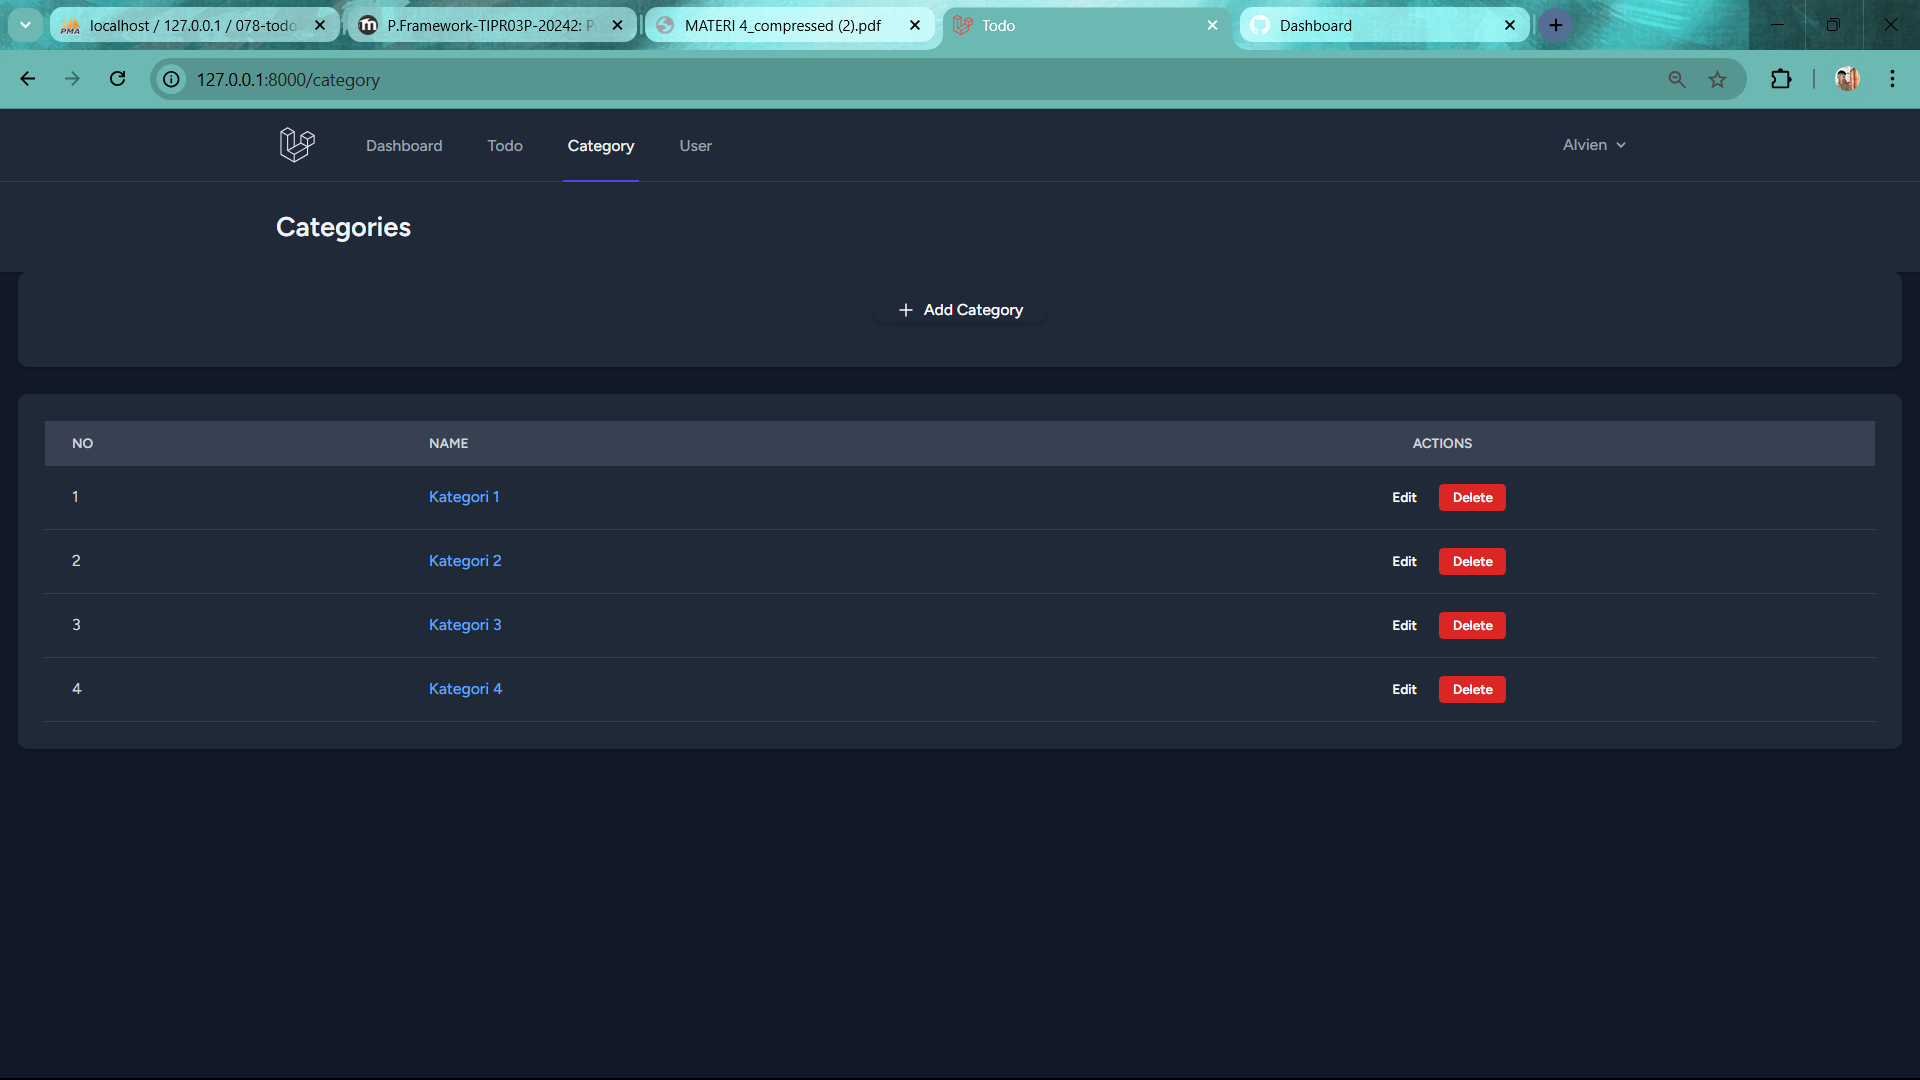
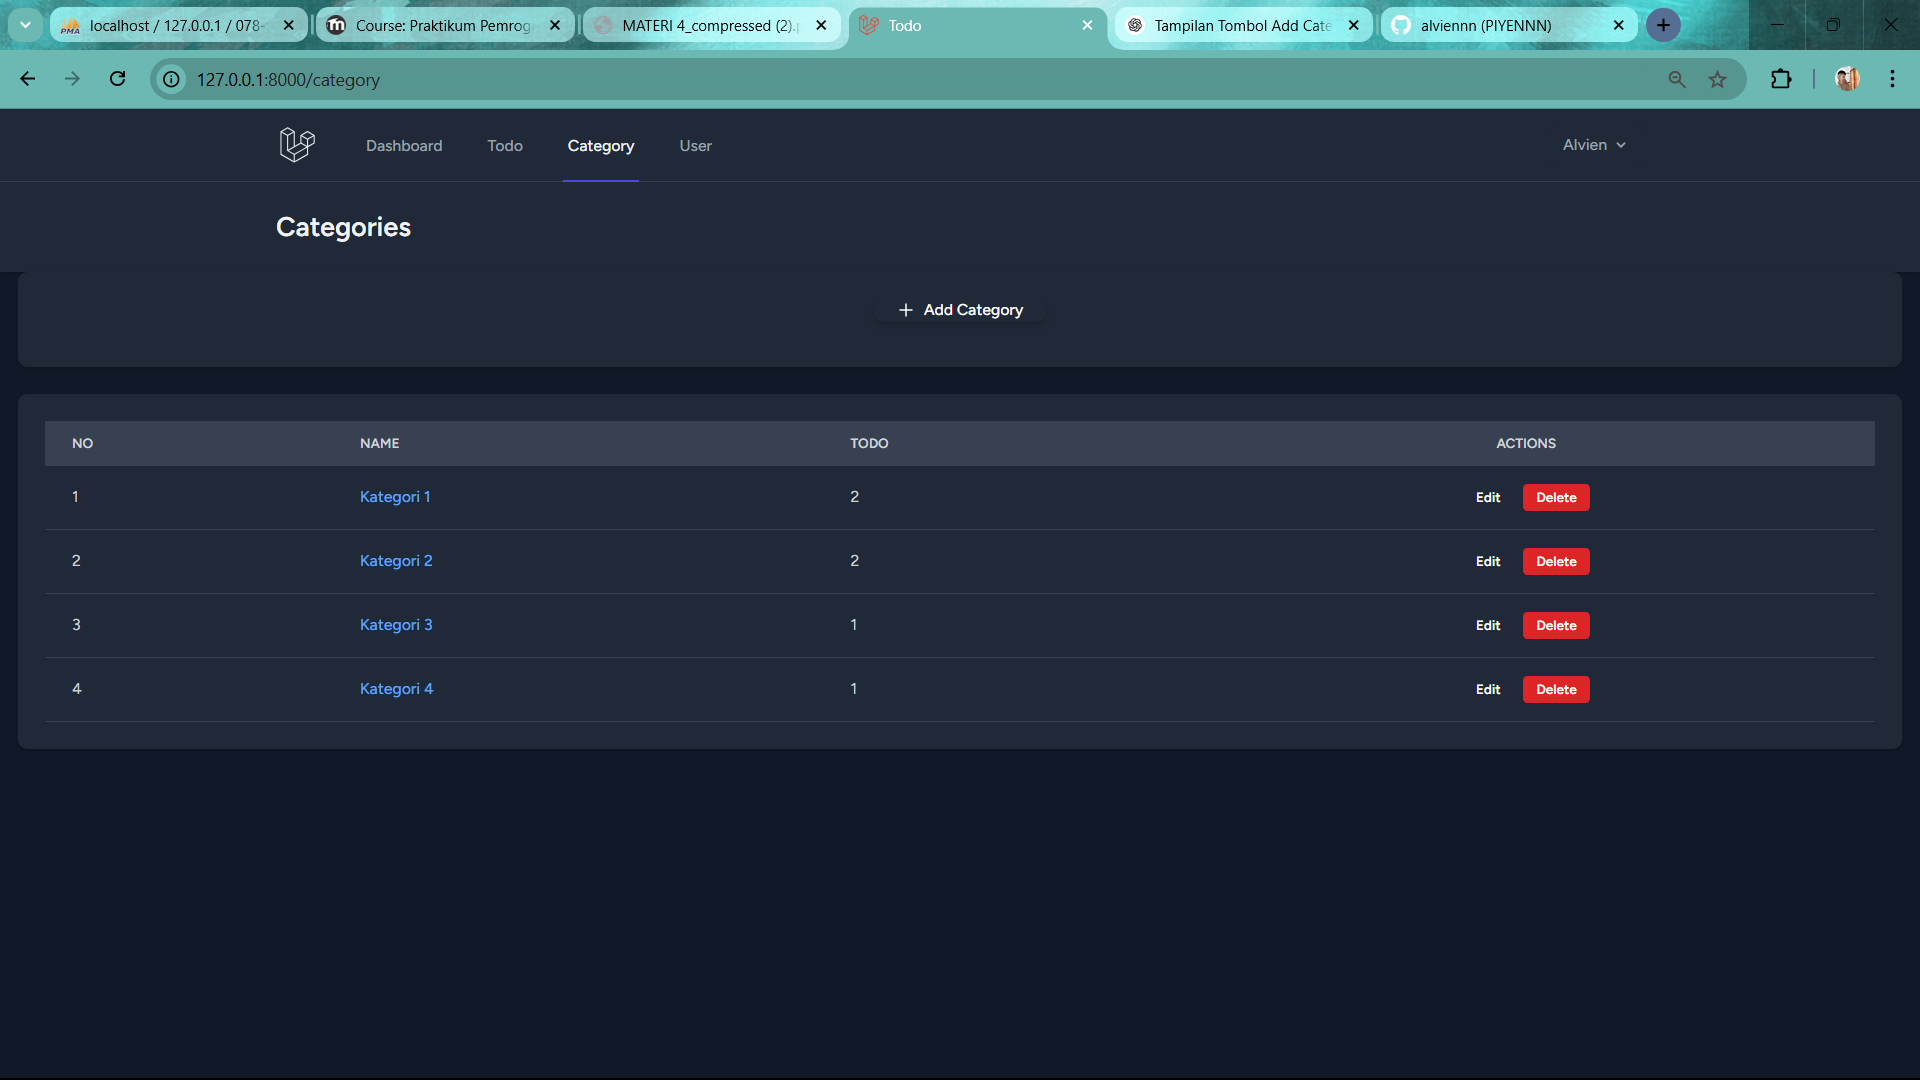
ucp-1 add category "menambah kolom todo"

diff --git a/resources/views/category/index.blade.php b/resources/views/category/index.blade.php
@@ -42,6 +42,7 @@
                         <tr>
                             <th class="px-6 py-3">No</th>
                             <th class="px-6 py-3">Name</th>
+                            <th class="px-6 py-3">Todo</th>
                             <th class="px-6 py-3 text-center">Actions</th>
                         </tr>
                     </thead>
@@ -54,6 +55,9 @@
                                         class="font-medium text-blue-600 dark:text-blue-400 hover:underline">
                                         {{ $category->name }}
                                     </a>
+                                </td>
+                                <td class="px-6 py-4">
+                                    {{ $category->todos_count }}
                                 </td>
                                 <td class="px-6 py-4 text-center">
                                     <div class="flex justify-center gap-2 flex-wrap">

diff --git a/app/Http/Controllers/CategoryController.php b/app/Http/Controllers/CategoryController.php
@@ -9,7 +9,7 @@ class CategoryController extends Controller
 {
     public function index()
     {
-        $categories = Category::all();
+        $categories = Category::withCount('todos')->get();
         return view('category.index', compact('categories'));
     }
 
